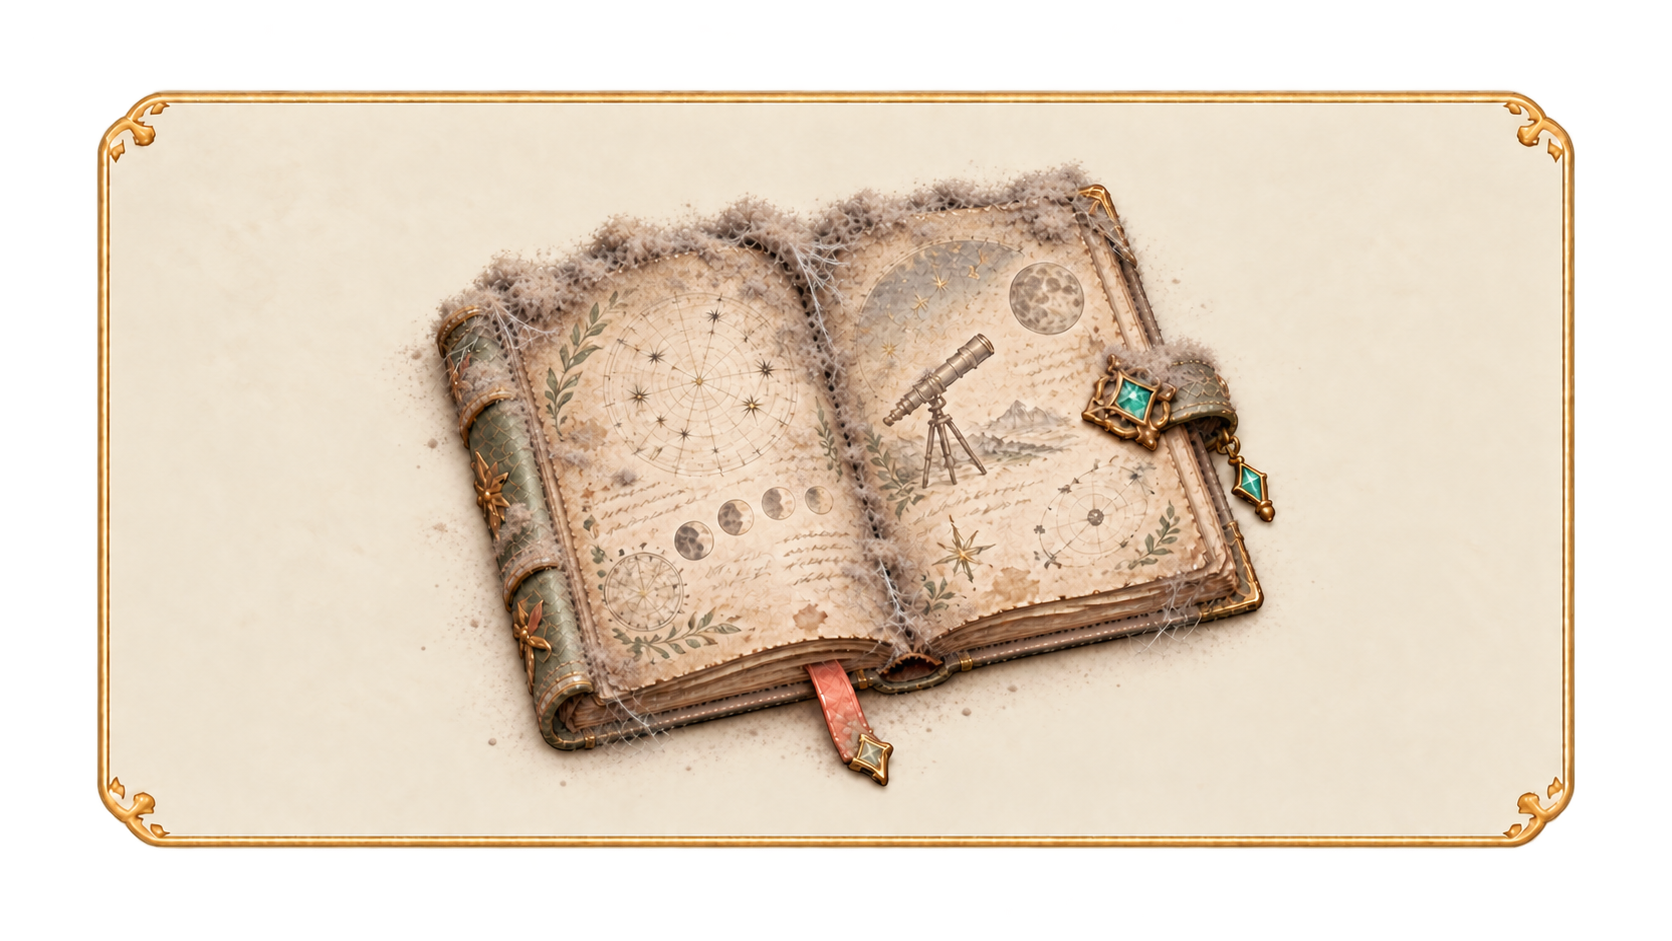
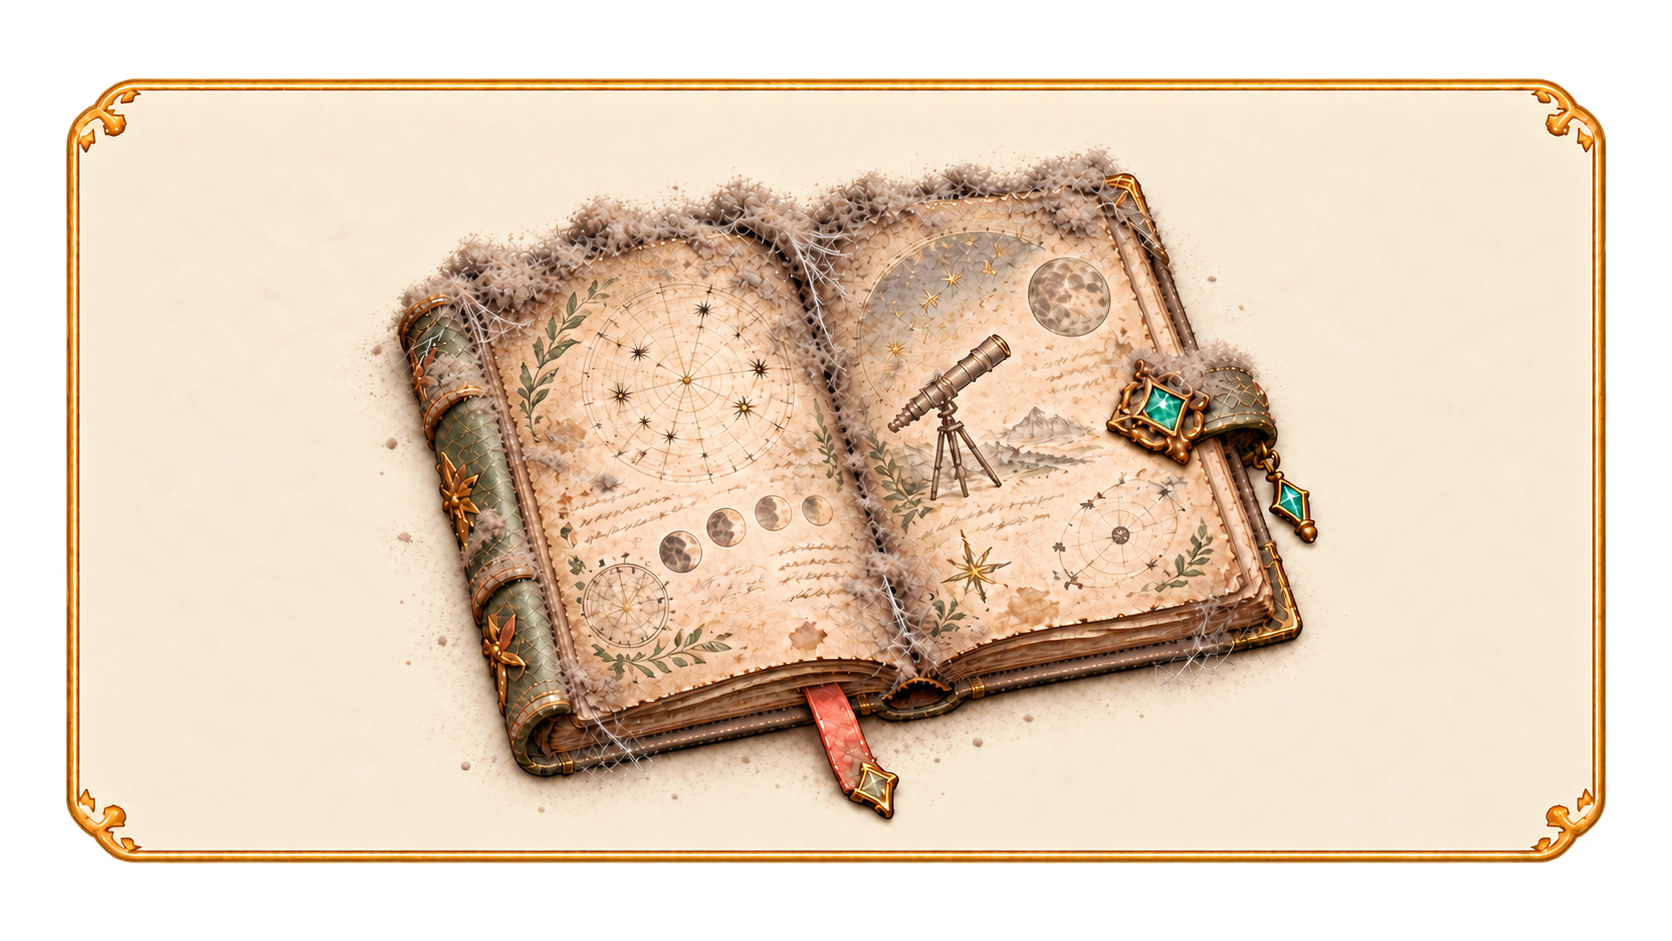
Frame three story focus items in ivory cards

Changed region(s): [[0.0311, 0.0616, 0.9641, 0.9245]]

diff --git a/asset/README.md b/asset/README.md
@@ -13,11 +13,11 @@
 
 | 제작 ID | 파일 · 작은 미리보기 | 정확한 사용처 | 상태 |
 |---|---|---|---|
-| `ART-N01` | [흩어진 모임 안내지](item/ART-N01_meeting_notices_scattered.png)<br><img src="item/ART-N01_meeting_notices_scattered.png" width="100" alt="흩어진 작은 모임 안내지"> | `NPC_GUIDE_01` 최초, `NPC_GUIDE_02·04` 재사용. 시계탑 광장 배경 위 FOCUS | 이미지 채택·파일 등록. 엔진 표시 미검수 |
-| `ART-N06` | [루루의 열린 보물상자](item/ART-N06_lulu_treasure_chest_open.png)<br><img src="item/ART-N06_lulu_treasure_chest_open.png" width="90" alt="루루의 열린 보물상자"> | `NPC_LULU_02` 최초, `NPC_LULU_03–04` 재사용. 방문 장소는 온실 또는 약초원 | 이미지 채택·파일 등록. 엔진 표시 미검수 |
-| `ART-L01` | [펼친 관측 일기](item/ART-L01_observation_diary_open_dusty.png)<br><img src="item/ART-L01_observation_diary_open_dusty.png" width="110" alt="먼지와 거미줄이 쌓인 펼친 관측 일기"> | `LOC_OBS_01` 최초, `LOC_OBS_02–04` 재사용. 별빛 천문대 배경 위 FOCUS | 이미지 채택·파일 등록. 엔진 표시 미검수 |
+| `ART-N01` | [아이보리 프레임 · 흩어진 모임 안내지](item/ART-N01_meeting_notices_scattered.png)<br><img src="item/ART-N01_meeting_notices_scattered.png" width="110" alt="아이보리 프레임 속 흩어진 작은 모임 안내지"> | `NPC_GUIDE_01` 최초, `NPC_GUIDE_02·04` 재사용. 시계탑 광장 배경 위 FOCUS | 이미지 채택·파일 등록. 엔진 표시 미검수 |
+| `ART-N06` | [아이보리 프레임 · 루루의 열린 보물상자](item/ART-N06_lulu_treasure_chest_open.png)<br><img src="item/ART-N06_lulu_treasure_chest_open.png" width="110" alt="아이보리 프레임 속 루루의 열린 보물상자"> | `NPC_LULU_02` 최초, `NPC_LULU_03–04` 재사용. 방문 장소는 온실 또는 약초원 | 이미지 채택·파일 등록. 엔진 표시 미검수 |
+| `ART-L01` | [아이보리 프레임 · 펼친 관측 일기](item/ART-L01_observation_diary_open_dusty.png)<br><img src="item/ART-L01_observation_diary_open_dusty.png" width="110" alt="아이보리 프레임 속 먼지와 거미줄이 쌓인 펼친 관측 일기"> | `LOC_OBS_01` 최초, `LOC_OBS_02–04` 재사용. 별빛 천문대 배경 위 FOCUS | 이미지 채택·파일 등록. 엔진 표시 미검수 |
 
-게임용 일반 아이템 25장과 기존 프레임 카드 4장까지 포함한 **아이템 이미지 전체 32장**의 파일명·미리보기는 [item/README.md](item/README.md)에서 확인합니다. 프레임 카드·일반 아이템을 `ART-*` 전용 그림에 자동 대입하지 않습니다.
+세 FOCUS는 모두 밝은 아이보리 프레임과 투명한 바깥 배경의 1672×941 PNG입니다. 게임용 일반 아이템 25장과 기존 프레임 카드 4장까지 포함한 **아이템 이미지 전체 32장**의 파일명·미리보기는 [item/README.md](item/README.md)에서 확인합니다. 프레임 카드·일반 아이템을 `ART-*` 전용 그림에 자동 대입하지 않습니다.
 
 ## 메인 스토리와 엔딩
 

diff --git a/asset/item/README.md b/asset/item/README.md
@@ -19,27 +19,27 @@
 
 ## 채택한 스토리 FOCUS · 3장
 
-다음 세 장은 사용자 시안 선택에 따라 등록했습니다. 미리보기는 좁은 표에서 줄어들지 않도록 각각 따로 배치했습니다. 가로·세로 비율이 달라 표시 폭은 다르지만 높이는 약 200px로 맞췄습니다. 아래 규격은 파일의 실제 픽셀 수입니다. **이미지 경로 확정과 엔진 화면 연결 완료는 별개**이며, 게임 화면의 표시·크기 검수는 남아 있습니다.
+다음 세 장은 사용자 승인에 따라 같은 밝은 아이보리 바탕·얇은 장식 프레임으로 교체했습니다. 미리보기는 좁은 표에서 줄어들지 않도록 각각 따로 배치하고 모두 폭 350px로 맞췄습니다. 프레임 밖은 투명합니다. 아래 규격은 파일의 실제 픽셀 수입니다. **이미지 경로 확정과 엔진 화면 연결 완료는 별개**이며, 게임 화면의 표시·크기 검수는 남아 있습니다.
 
 ### `ART-N01` · 바람에 흩어진 모임 안내지
 
-<img src="./ART-N01_meeting_notices_scattered.png" width="300" alt="바람에 흩어진 작은 모임 안내지 여러 장">
+<img src="./ART-N01_meeting_notices_scattered.png" width="350" alt="밝은 아이보리 프레임 속 바람에 흩어진 작은 모임 안내지 여러 장">
 
-- 파일: [ART-N01_meeting_notices_scattered.png](./ART-N01_meeting_notices_scattered.png) · 1536×1024 PNG
+- 파일: [ART-N01_meeting_notices_scattered.png](./ART-N01_meeting_notices_scattered.png) · 1672×941 투명 PNG
 - 사용처: `NPC_GUIDE_01` 시계탑 광장에서 처음 표시. `NPC_GUIDE_02`, `NPC_GUIDE_04`에서 같은 그림 재사용. 읽히는 글자 대신 단순 문양 사용.
 
 ### `ART-N06` · 루루의 열린 보물상자
 
-<img src="./ART-N06_lulu_treasure_chest_open.png" width="190" alt="단추와 작은 수집품이 보이는 루루의 열린 보물상자">
+<img src="./ART-N06_lulu_treasure_chest_open.png" width="350" alt="밝은 아이보리 프레임 속 수집품이 보이는 루루의 열린 보물상자">
 
-- 파일: [ART-N06_lulu_treasure_chest_open.png](./ART-N06_lulu_treasure_chest_open.png) · 1226×1283 PNG
+- 파일: [ART-N06_lulu_treasure_chest_open.png](./ART-N06_lulu_treasure_chest_open.png) · 1672×941 투명 PNG
 - 사용처: `NPC_LULU_02` 온실 또는 약초원에서 처음 표시. `NPC_LULU_03–04`에서 같은 그림 재사용. 이후 새 발견물은 대사로 설명.
 
 ### `ART-L01` · 펼쳐진 관측 일기
 
 <img src="./ART-L01_observation_diary_open_dusty.png" width="350" alt="밝은 아이보리 프레임 속 먼지와 거미줄이 수북한 펼친 관측 일기">
 
-- 파일: [ART-L01_observation_diary_open_dusty.png](./ART-L01_observation_diary_open_dusty.png) · 1672×941 PNG
+- 파일: [ART-L01_observation_diary_open_dusty.png](./ART-L01_observation_diary_open_dusty.png) · 1672×941 투명 PNG
 - 사용처: `LOC_OBS_01` 별빛 천문대에서 처음 표시. `LOC_OBS_02–04`에서 같은 그림 재사용. 회차별 기록 내용은 대화창 텍스트로 표시.
 
 ## 기존 게임용 아이템 · 25장
